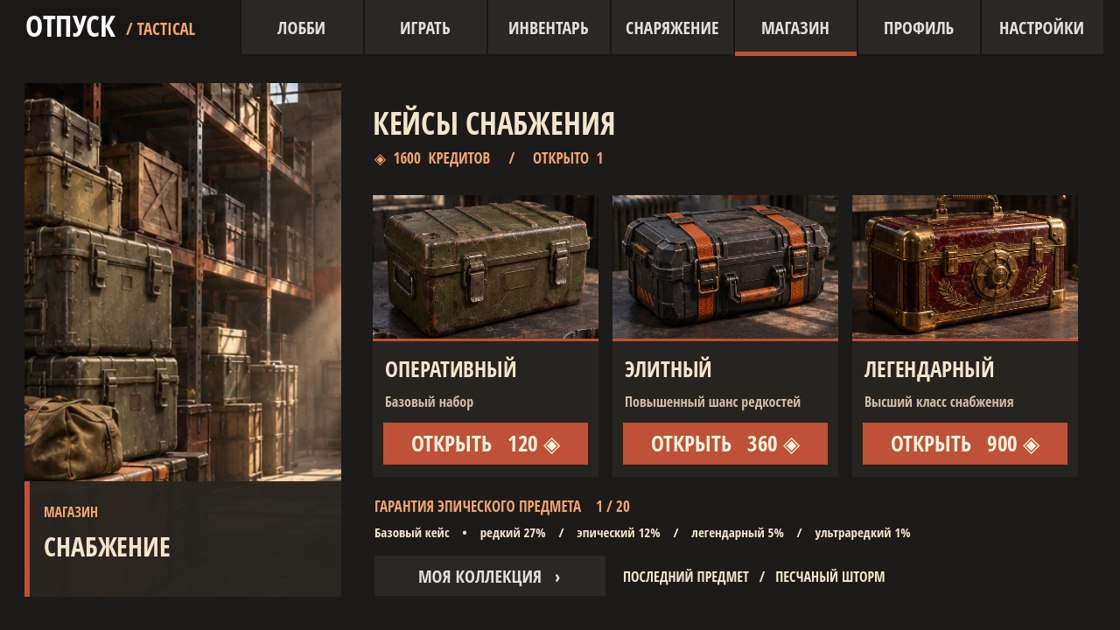
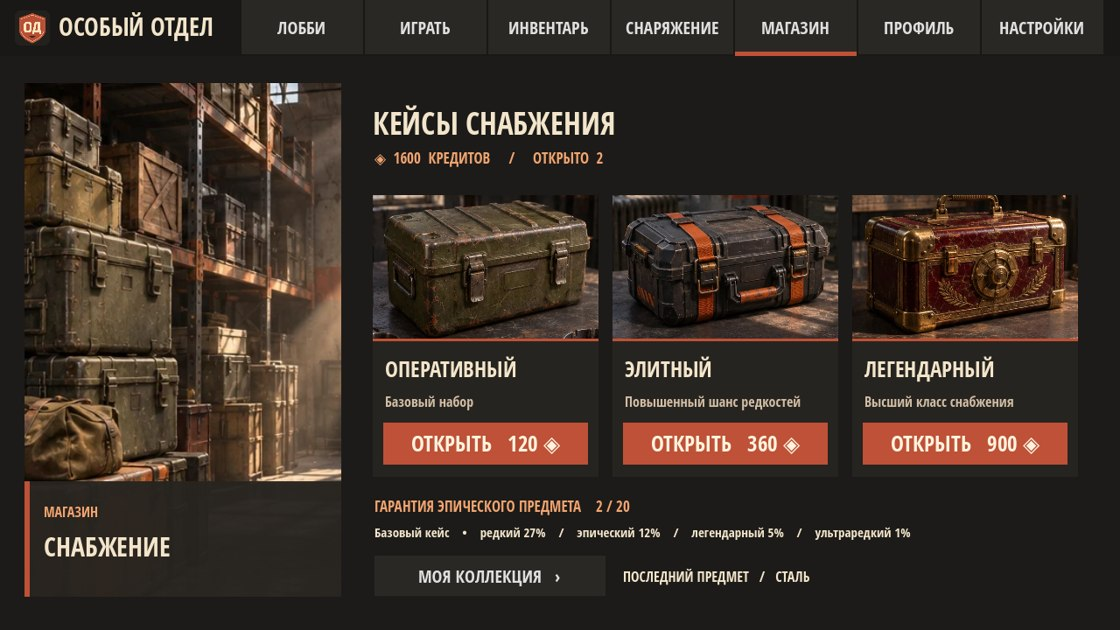
Rename the game to Особый отдел and retain existing player profiles

Changed region(s): [[0.0, 0.0, 0.1875, 0.0603], [0.6875, 0.9048, 0.8125, 0.9349]]

diff --git a/babylon.html b/babylon.html
@@ -1,1 +1,1 @@
-<!doctype html><html lang="ru"><head><meta charset="utf-8"><meta name="viewport" content="width=device-width,initial-scale=1,maximum-scale=1,user-scalable=no"><meta name="theme-color" content="#101923"><title>ОТПУСК · TACTICAL</title><style>*{box-sizing:border-box}html,body{margin:0;width:100%;height:100%;overflow:hidden;background:#101923;color:#edf0f1;font:14px system-ui,Arial;touch-action:none}button{cursor:pointer;font:inherit}#renderCanvas{width:100%;height:100%;display:block;touch-action:none}#damageFlash{position:fixed;inset:0;pointer-events:none;opacity:0;background:radial-gradient(ellipse at center,transparent 38%,#bd2715ae 100%)}#hitMarker{position:fixed;left:50%;top:50%;transform:translate(-50%,-50%);font:800 28px Arial;color:#fff;opacity:0;pointer-events:none}#hud{position:fixed;inset:0;pointer-events:none;text-shadow:0 2px 5px #000b}#top{position:absolute;top:9px;left:50%;transform:translateX(-50%);padding:9px 18px;background:#14202de8;border-bottom:2px solid #d5a354;font-weight:800;white-space:nowrap;font-size:12px;letter-spacing:.6px}#objective{color:#edc17b}#stats{position:absolute;bottom:13px;left:150px;display:flex;gap:7px;font-size:20px;font-weight:900}#stats>div{padding:8px 13px;background:#132230dd;border-left:3px solid #d9a75b}#status{position:absolute;top:55px;left:50%;transform:translateX(-50%);color:#d9ac65;font-size:10px;letter-spacing:1px}#pause{position:absolute;right:13px;top:12px;background:#1c2d3ce8;border:1px solid #718390;color:#fff;padding:10px 14px;pointer-events:auto}#viewSwitch,#qualitySwitch{display:none}#weaponSwitch{position:absolute;right:14px;bottom:15px;background:#172634e8;border:1px solid #bd9258;color:#f7d5a4;padding:12px 15px;pointer-events:auto;font-size:12px;font-weight:800;max-width:190px}#stick{position:fixed;bottom:14px;left:18px;width:112px;height:112px;border:2px solid #c6d0d077;border-radius:50%;background:#182b3a99;touch-action:none}#knob{position:absolute;width:49px;height:49px;border-radius:50%;background:#c9d2d299;left:30px;top:30px}#overlay{position:fixed;inset:0;z-index:10;display:flex;align-items:stretch;padding:0;background:linear-gradient(90deg,#0c1720f8 0%,#132431f0 38%,#152735a0 58%,#15273513 100%);overflow:auto}#overlay[hidden]{display:none}#panel{width:100%;min-height:100%;display:flex;flex-direction:column;gap:0}#panel .shell{display:flex;flex-direction:column;min-height:100%;width:100%}#panel .menu-head{height:56px;display:flex;align-items:center;justify-content:space-between;padding:0 26px;border-bottom:1px solid #8494a02b;background:#0c1720b9}#panel .brand{font-weight:950;letter-spacing:2px;font-size:18px;color:#f1c17c}#panel .menu-meta{font-size:10px;color:#a9b7c3;letter-spacing:1px}#panel .menu-body{flex:1;display:flex;min-height:0}#panel .nav{width:160px;flex:none;padding:17px 9px;background:#0d1925bc;border-right:1px solid #ffffff17;display:flex;flex-direction:column;gap:6px}#panel button{border:1px solid #63758777;color:#e7edf1;background:#203342e0;padding:11px 13px;text-align:left;font-size:12px;font-weight:800}#panel button.primary{background:#d6a65e;color:#17232c;border-color:#d6a65e}#panel button.active{border-left:3px solid #e3b566;background:#324452}#panel .content{padding:20px clamp(18px,4vw,46px);flex:1;overflow:auto;max-width:60%;background:linear-gradient(90deg,#0d1b28bb,#10202b44)}#panel h1{font-size:clamp(22px,3.6vw,37px);letter-spacing:1px;color:#f4e8d4;margin:0 0 10px}#panel h2{font-size:14px;color:#e7b973;margin:15px 0 9px;letter-spacing:1px}#panel p{font-size:12px;color:#b8c7d1;line-height:1.55;max-width:570px}#panel .eyebrow{font-size:10px;color:#e3b66c;letter-spacing:2px;margin-bottom:8px}#panel .menu-actions{display:flex;flex-wrap:wrap;gap:9px;margin-top:17px}#panel .menu-actions button{min-width:170px}#panel .tiles{display:grid;grid-template-columns:repeat(auto-fit,minmax(135px,1fr));gap:9px;max-width:680px}#panel .tile{background:#1d303dcf;border:1px solid #526779a6;padding:14px;min-height:80px}#panel .tile b{color:#f2d6a9}#panel .tile small{display:block;color:#b3c3ce;margin-top:9px}#panel .menu-foot{background:#0c1720b8;padding:9px 25px;border-top:1px solid #8494a02b;color:#8ea0ad;font-size:10px;letter-spacing:1px}@media(max-width:680px){#panel .nav{width:116px}#panel .nav button{font-size:10px;padding:9px 6px}#panel .content{max-width:70%;padding:12px 13px}#panel .menu-meta{display:none}#panel .tiles{grid-template-columns:repeat(2,minmax(105px,1fr))}}@media(max-height:420px){#panel .menu-head{height:43px}#panel .content{padding:12px 20px}#panel .nav{padding:8px;width:138px}#panel .tile{min-height:65px;padding:10px}#panel h1{font-size:24px}#stick{width:85px;height:85px}#knob{left:18px;top:18px}#stats{left:114px;font-size:16px}#panel .menu-foot{padding:5px 20px}}</style></head><body><canvas id="renderCanvas"></canvas><div id="damageFlash"></div><div id="hitMarker">✕</div><div id="hud"><div id="top"><span id="objective">ОПЕРАЦИЯ</span> · <span id="kills">0 / 12</span></div><div id="status">ЗАГРУЗКА BABYLON.JS</div><div id="stats"><div>✚ <span id="health">100</span></div></div><button id="pause" aria-label="Пауза">Ⅱ</button><button id="viewSwitch">КАМЕРА: ДАЛЬШЕ</button><button id="qualitySwitch">ГРАФИКА: СРЕДНЯЯ</button><button id="weaponSwitch"><span id="weaponName">MK-18 · АВТОМАТ</span> ↻</button></div><div id="stick"><div id="knob"></div></div><div id="overlay"><div id="panel"><h1>ЗАГРУЗКА 3D</h1></div></div><script src="./vendor/babylon.js"></script><script src="./texture-pack.js"></script><script src="./babylon-game.js"></script></body></html>
+<!doctype html><html lang="ru"><head><meta charset="utf-8"><meta name="viewport" content="width=device-width,initial-scale=1,maximum-scale=1,user-scalable=no"><meta name="theme-color" content="#101923"><title>ОСОБЫЙ ОТДЕЛ</title><style>*{box-sizing:border-box}html,body{margin:0;width:100%;height:100%;overflow:hidden;background:#101923;color:#edf0f1;font:14px system-ui,Arial;touch-action:none}button{cursor:pointer;font:inherit}#renderCanvas{width:100%;height:100%;display:block;touch-action:none}#damageFlash{position:fixed;inset:0;pointer-events:none;opacity:0;background:radial-gradient(ellipse at center,transparent 38%,#bd2715ae 100%)}#hitMarker{position:fixed;left:50%;top:50%;transform:translate(-50%,-50%);font:800 28px Arial;color:#fff;opacity:0;pointer-events:none}#hud{position:fixed;inset:0;pointer-events:none;text-shadow:0 2px 5px #000b}#top{position:absolute;top:9px;left:50%;transform:translateX(-50%);padding:9px 18px;background:#14202de8;border-bottom:2px solid #d5a354;font-weight:800;white-space:nowrap;font-size:12px;letter-spacing:.6px}#objective{color:#edc17b}#stats{position:absolute;bottom:13px;left:150px;display:flex;gap:7px;font-size:20px;font-weight:900}#stats>div{padding:8px 13px;background:#132230dd;border-left:3px solid #d9a75b}#status{position:absolute;top:55px;left:50%;transform:translateX(-50%);color:#d9ac65;font-size:10px;letter-spacing:1px}#pause{position:absolute;right:13px;top:12px;background:#1c2d3ce8;border:1px solid #718390;color:#fff;padding:10px 14px;pointer-events:auto}#viewSwitch,#qualitySwitch{display:none}#weaponSwitch{position:absolute;right:14px;bottom:15px;background:#172634e8;border:1px solid #bd9258;color:#f7d5a4;padding:12px 15px;pointer-events:auto;font-size:12px;font-weight:800;max-width:190px}#stick{position:fixed;bottom:14px;left:18px;width:112px;height:112px;border:2px solid #c6d0d077;border-radius:50%;background:#182b3a99;touch-action:none}#knob{position:absolute;width:49px;height:49px;border-radius:50%;background:#c9d2d299;left:30px;top:30px}#overlay{position:fixed;inset:0;z-index:10;display:flex;align-items:stretch;padding:0;background:linear-gradient(90deg,#0c1720f8 0%,#132431f0 38%,#152735a0 58%,#15273513 100%);overflow:auto}#overlay[hidden]{display:none}#panel{width:100%;min-height:100%;display:flex;flex-direction:column;gap:0}#panel .shell{display:flex;flex-direction:column;min-height:100%;width:100%}#panel .menu-head{height:56px;display:flex;align-items:center;justify-content:space-between;padding:0 26px;border-bottom:1px solid #8494a02b;background:#0c1720b9}#panel .brand{font-weight:950;letter-spacing:2px;font-size:18px;color:#f1c17c}#panel .menu-meta{font-size:10px;color:#a9b7c3;letter-spacing:1px}#panel .menu-body{flex:1;display:flex;min-height:0}#panel .nav{width:160px;flex:none;padding:17px 9px;background:#0d1925bc;border-right:1px solid #ffffff17;display:flex;flex-direction:column;gap:6px}#panel button{border:1px solid #63758777;color:#e7edf1;background:#203342e0;padding:11px 13px;text-align:left;font-size:12px;font-weight:800}#panel button.primary{background:#d6a65e;color:#17232c;border-color:#d6a65e}#panel button.active{border-left:3px solid #e3b566;background:#324452}#panel .content{padding:20px clamp(18px,4vw,46px);flex:1;overflow:auto;max-width:60%;background:linear-gradient(90deg,#0d1b28bb,#10202b44)}#panel h1{font-size:clamp(22px,3.6vw,37px);letter-spacing:1px;color:#f4e8d4;margin:0 0 10px}#panel h2{font-size:14px;color:#e7b973;margin:15px 0 9px;letter-spacing:1px}#panel p{font-size:12px;color:#b8c7d1;line-height:1.55;max-width:570px}#panel .eyebrow{font-size:10px;color:#e3b66c;letter-spacing:2px;margin-bottom:8px}#panel .menu-actions{display:flex;flex-wrap:wrap;gap:9px;margin-top:17px}#panel .menu-actions button{min-width:170px}#panel .tiles{display:grid;grid-template-columns:repeat(auto-fit,minmax(135px,1fr));gap:9px;max-width:680px}#panel .tile{background:#1d303dcf;border:1px solid #526779a6;padding:14px;min-height:80px}#panel .tile b{color:#f2d6a9}#panel .tile small{display:block;color:#b3c3ce;margin-top:9px}#panel .menu-foot{background:#0c1720b8;padding:9px 25px;border-top:1px solid #8494a02b;color:#8ea0ad;font-size:10px;letter-spacing:1px}@media(max-width:680px){#panel .nav{width:116px}#panel .nav button{font-size:10px;padding:9px 6px}#panel .content{max-width:70%;padding:12px 13px}#panel .menu-meta{display:none}#panel .tiles{grid-template-columns:repeat(2,minmax(105px,1fr))}}@media(max-height:420px){#panel .menu-head{height:43px}#panel .content{padding:12px 20px}#panel .nav{padding:8px;width:138px}#panel .tile{min-height:65px;padding:10px}#panel h1{font-size:24px}#stick{width:85px;height:85px}#knob{left:18px;top:18px}#stats{left:114px;font-size:16px}#panel .menu-foot{padding:5px 20px}}</style></head><body><canvas id="renderCanvas"></canvas><div id="damageFlash"></div><div id="hitMarker">✕</div><div id="hud"><div id="top"><span id="objective">ОПЕРАЦИЯ</span> · <span id="kills">0 / 12</span></div><div id="status">ЗАГРУЗКА BABYLON.JS</div><div id="stats"><div>✚ <span id="health">100</span></div></div><button id="pause" aria-label="Пауза">Ⅱ</button><button id="viewSwitch">КАМЕРА: ДАЛЬШЕ</button><button id="qualitySwitch">ГРАФИКА: СРЕДНЯЯ</button><button id="weaponSwitch"><span id="weaponName">MK-18 · АВТОМАТ</span> ↻</button></div><div id="stick"><div id="knob"></div></div><div id="overlay"><div id="panel"><h1>ЗАГРУЗКА 3D</h1></div></div><script src="./vendor/babylon.js"></script><script src="./texture-pack.js"></script><script src="./babylon-game.js"></script></body></html>

diff --git a/game3d.js b/game3d.js
@@ -288,7 +288,7 @@ if(running3d)loading.remove();
 const mainMenu=document.createElement('div');mainMenu.id='mainMenu3d';
 mainMenu.style.cssText='position:fixed;inset:0;z-index:15;display:flex;flex-direction:column;background:linear-gradient(95deg,#101822f8 0%,#1b2b39e8 54%,#101720d9 100%);color:#f0e8dc;font:14px Arial;overflow:auto';
 const menuNav=document.createElement('div');menuNav.style.cssText='display:flex;align-items:center;gap:clamp(8px,2.5vw,26px);padding:12px clamp(18px,4vw,52px);background:#101923ee;border-bottom:1px solid #77899766;flex-wrap:wrap';
-const menuBrand=document.createElement('strong');menuBrand.textContent='ОТПУСК / TACTICAL';menuBrand.style.cssText='font-size:clamp(15px,2vw,22px);color:#e5ad5b;letter-spacing:2px;margin-right:clamp(5px,3vw,32px)';
+const menuBrand=document.createElement('strong');menuBrand.textContent='ОСОБЫЙ ОТДЕЛ';menuBrand.style.cssText='font-size:clamp(15px,2vw,22px);color:#e5ad5b;letter-spacing:2px;margin-right:clamp(5px,3vw,32px)';
 menuNav.append(menuBrand);
 const menuBody=document.createElement('div');menuBody.style.cssText='flex:1;display:flex;align-items:center;gap:clamp(20px,4vw,70px);padding:clamp(18px,4vw,52px);min-height:0';
 const menuPanel=document.createElement('div');menuPanel.style.cssText='width:min(100%,520px);display:flex;flex-direction:column;gap:12px;max-height:100%;overflow:auto';

diff --git a/babylon-game.js b/babylon-game.js
@@ -190,7 +190,7 @@ function setLobby(enabled){
 function menu(tab='play'){setLobby(true);
  playing=false;overlay.hidden=false;panel.replaceChildren();
  const shell=document.createElement('div');shell.className='shell';panel.append(shell);
- const head=document.createElement('div');head.className='menu-head';head.innerHTML='<span class="brand">ОТПУСК <span style="color:#e6edf1">/ TACTICAL</span></span><span class="menu-meta">MOBILE OPERATIONS · BUILD ALPHA</span>';shell.append(head);
+ const head=document.createElement('div');head.className='menu-head';head.innerHTML='<span class="brand">ОСОБЫЙ <span style="color:#e6edf1">ОТДЕЛ</span></span><span class="menu-meta">MOBILE OPERATIONS · BUILD ALPHA</span>';shell.append(head);
  const body=document.createElement('div');body.className='menu-body';shell.append(body);
  const nav=document.createElement('nav');nav.className='nav';body.append(nav);
  const content=document.createElement('main');content.className='content';body.append(content);

diff --git a/3d.html b/3d.html
@@ -1,4 +1,4 @@
-<!doctype html><html lang="ru"><head><meta charset="utf-8"><meta name="viewport" content="width=device-width,initial-scale=1,maximum-scale=1,user-scalable=no"><meta name="theme-color" content="#17242d"><title>ОТПУСК — TACTICAL 3D</title><style>
+<!doctype html><html lang="ru"><head><meta charset="utf-8"><meta name="viewport" content="width=device-width,initial-scale=1,maximum-scale=1,user-scalable=no"><meta name="theme-color" content="#17242d"><title>ОСОБЫЙ ОТДЕЛ</title><style>
 :root{--ink:#101820;--panel:#17242de8;--steel:#7d929e;--line:#8da0a866;--text:#e9e7de;--gold:#e6b65b;--blue:#7daac3;--danger:#dd6d63}
 *{box-sizing:border-box}html,body{margin:0;width:100%;height:100%;overflow:hidden;background:#101820;color:var(--text);font-family:Arial,Helvetica,sans-serif;touch-action:none}canvas{display:block}
 button{font:inherit;cursor:pointer;-webkit-tap-highlight-color:transparent}

diff --git a/godot/README.md b/godot/README.md
@@ -1,4 +1,4 @@
-# ОТПУСК / TACTICAL
+# ОСОБЫЙ ОТДЕЛ
 
 Игра от первого лица для Android на Godot 4.5.1. Герой пытается получить подпись на рапорте об отпуске до Нового года. Кампания состоит из пяти этапов. Также доступен бесконечный режим.
 
